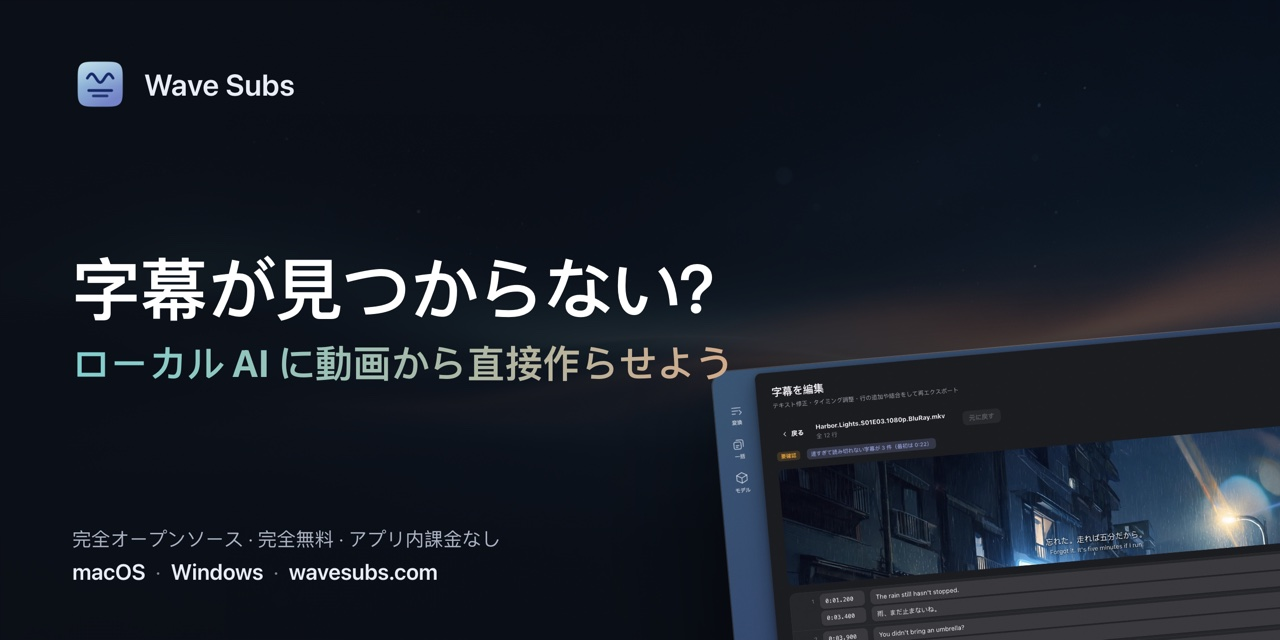
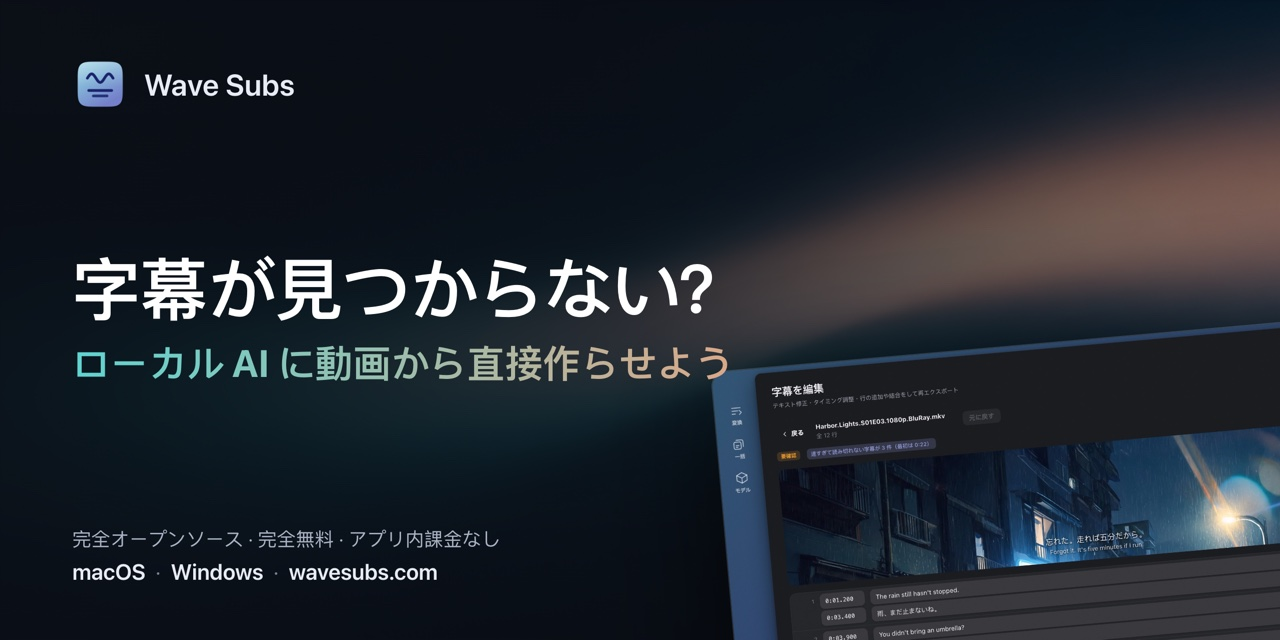
官网背景换成无星点的柔光版；社交图增加高清横版与两种竖版（11 语 × 4 尺寸）

Changed region(s): [[0.5, 0.125, 1.0, 0.5938], [0.0625, 0.5312, 0.0938, 0.5938], [0.9688, 0.75, 1.0, 0.7812]]

diff --git a/docs/de/index.html b/docs/de/index.html
@@ -45,7 +45,7 @@
 
   /* ---- 首屏 ---- */
   .hero{position:relative;overflow:hidden;padding:96px 0 40px;text-align:center}
-  .hero::before{content:"";position:absolute;inset:0;background:url(../assets/hero-wave.jpg?v=9acb51fc) center 35%/cover no-repeat;opacity:.85;mask-image:linear-gradient(to bottom,#000 45%,transparent 100%);-webkit-mask-image:linear-gradient(to bottom,#000 45%,transparent 100%)}
+  .hero::before{content:"";position:absolute;inset:0;background:url(../assets/hero-wave.jpg?v=05552337) center 55%/cover no-repeat;opacity:.8;mask-image:linear-gradient(to bottom,#000 50%,transparent 100%);-webkit-mask-image:linear-gradient(to bottom,#000 50%,transparent 100%)}
   .hero .wrap{position:relative}
   .hero h1{font-size:clamp(34px,5.4vw,60px);line-height:1.12;margin:0 0 18px;letter-spacing:-.5px;font-weight:700}
   .hero h1 em{font-style:normal;background:linear-gradient(90deg,var(--teal),var(--coral));-webkit-background-clip:text;background-clip:text;color:transparent}

diff --git a/docs/en/index.html b/docs/en/index.html
@@ -45,7 +45,7 @@
 
   /* ---- 首屏 ---- */
   .hero{position:relative;overflow:hidden;padding:96px 0 40px;text-align:center}
-  .hero::before{content:"";position:absolute;inset:0;background:url(../assets/hero-wave.jpg?v=9acb51fc) center 35%/cover no-repeat;opacity:.85;mask-image:linear-gradient(to bottom,#000 45%,transparent 100%);-webkit-mask-image:linear-gradient(to bottom,#000 45%,transparent 100%)}
+  .hero::before{content:"";position:absolute;inset:0;background:url(../assets/hero-wave.jpg?v=05552337) center 55%/cover no-repeat;opacity:.8;mask-image:linear-gradient(to bottom,#000 50%,transparent 100%);-webkit-mask-image:linear-gradient(to bottom,#000 50%,transparent 100%)}
   .hero .wrap{position:relative}
   .hero h1{font-size:clamp(34px,5.4vw,60px);line-height:1.12;margin:0 0 18px;letter-spacing:-.5px;font-weight:700}
   .hero h1 em{font-style:normal;background:linear-gradient(90deg,var(--teal),var(--coral));-webkit-background-clip:text;background-clip:text;color:transparent}

diff --git a/docs/fr/index.html b/docs/fr/index.html
@@ -45,7 +45,7 @@
 
   /* ---- 首屏 ---- */
   .hero{position:relative;overflow:hidden;padding:96px 0 40px;text-align:center}
-  .hero::before{content:"";position:absolute;inset:0;background:url(../assets/hero-wave.jpg?v=9acb51fc) center 35%/cover no-repeat;opacity:.85;mask-image:linear-gradient(to bottom,#000 45%,transparent 100%);-webkit-mask-image:linear-gradient(to bottom,#000 45%,transparent 100%)}
+  .hero::before{content:"";position:absolute;inset:0;background:url(../assets/hero-wave.jpg?v=05552337) center 55%/cover no-repeat;opacity:.8;mask-image:linear-gradient(to bottom,#000 50%,transparent 100%);-webkit-mask-image:linear-gradient(to bottom,#000 50%,transparent 100%)}
   .hero .wrap{position:relative}
   .hero h1{font-size:clamp(34px,5.4vw,60px);line-height:1.12;margin:0 0 18px;letter-spacing:-.5px;font-weight:700}
   .hero h1 em{font-style:normal;background:linear-gradient(90deg,var(--teal),var(--coral));-webkit-background-clip:text;background-clip:text;color:transparent}

diff --git a/docs/id/index.html b/docs/id/index.html
@@ -45,7 +45,7 @@
 
   /* ---- 首屏 ---- */
   .hero{position:relative;overflow:hidden;padding:96px 0 40px;text-align:center}
-  .hero::before{content:"";position:absolute;inset:0;background:url(../assets/hero-wave.jpg?v=9acb51fc) center 35%/cover no-repeat;opacity:.85;mask-image:linear-gradient(to bottom,#000 45%,transparent 100%);-webkit-mask-image:linear-gradient(to bottom,#000 45%,transparent 100%)}
+  .hero::before{content:"";position:absolute;inset:0;background:url(../assets/hero-wave.jpg?v=05552337) center 55%/cover no-repeat;opacity:.8;mask-image:linear-gradient(to bottom,#000 50%,transparent 100%);-webkit-mask-image:linear-gradient(to bottom,#000 50%,transparent 100%)}
   .hero .wrap{position:relative}
   .hero h1{font-size:clamp(34px,5.4vw,60px);line-height:1.12;margin:0 0 18px;letter-spacing:-.5px;font-weight:700}
   .hero h1 em{font-style:normal;background:linear-gradient(90deg,var(--teal),var(--coral));-webkit-background-clip:text;background-clip:text;color:transparent}

diff --git a/docs/ja/index.html b/docs/ja/index.html
@@ -45,7 +45,7 @@
 
   /* ---- 首屏 ---- */
   .hero{position:relative;overflow:hidden;padding:96px 0 40px;text-align:center}
-  .hero::before{content:"";position:absolute;inset:0;background:url(../assets/hero-wave.jpg?v=9acb51fc) center 35%/cover no-repeat;opacity:.85;mask-image:linear-gradient(to bottom,#000 45%,transparent 100%);-webkit-mask-image:linear-gradient(to bottom,#000 45%,transparent 100%)}
+  .hero::before{content:"";position:absolute;inset:0;background:url(../assets/hero-wave.jpg?v=05552337) center 55%/cover no-repeat;opacity:.8;mask-image:linear-gradient(to bottom,#000 50%,transparent 100%);-webkit-mask-image:linear-gradient(to bottom,#000 50%,transparent 100%)}
   .hero .wrap{position:relative}
   .hero h1{font-size:clamp(34px,5.4vw,60px);line-height:1.12;margin:0 0 18px;letter-spacing:-.5px;font-weight:700}
   .hero h1 em{font-style:normal;background:linear-gradient(90deg,var(--teal),var(--coral));-webkit-background-clip:text;background-clip:text;color:transparent}

diff --git a/docs/ko/index.html b/docs/ko/index.html
@@ -45,7 +45,7 @@
 
   /* ---- 首屏 ---- */
   .hero{position:relative;overflow:hidden;padding:96px 0 40px;text-align:center}
-  .hero::before{content:"";position:absolute;inset:0;background:url(../assets/hero-wave.jpg?v=9acb51fc) center 35%/cover no-repeat;opacity:.85;mask-image:linear-gradient(to bottom,#000 45%,transparent 100%);-webkit-mask-image:linear-gradient(to bottom,#000 45%,transparent 100%)}
+  .hero::before{content:"";position:absolute;inset:0;background:url(../assets/hero-wave.jpg?v=05552337) center 55%/cover no-repeat;opacity:.8;mask-image:linear-gradient(to bottom,#000 50%,transparent 100%);-webkit-mask-image:linear-gradient(to bottom,#000 50%,transparent 100%)}
   .hero .wrap{position:relative}
   .hero h1{font-size:clamp(34px,5.4vw,60px);line-height:1.12;margin:0 0 18px;letter-spacing:-.5px;font-weight:700}
   .hero h1 em{font-style:normal;background:linear-gradient(90deg,var(--teal),var(--coral));-webkit-background-clip:text;background-clip:text;color:transparent}

diff --git a/docs/ms/index.html b/docs/ms/index.html
@@ -45,7 +45,7 @@
 
   /* ---- 首屏 ---- */
   .hero{position:relative;overflow:hidden;padding:96px 0 40px;text-align:center}
-  .hero::before{content:"";position:absolute;inset:0;background:url(../assets/hero-wave.jpg?v=9acb51fc) center 35%/cover no-repeat;opacity:.85;mask-image:linear-gradient(to bottom,#000 45%,transparent 100%);-webkit-mask-image:linear-gradient(to bottom,#000 45%,transparent 100%)}
+  .hero::before{content:"";position:absolute;inset:0;background:url(../assets/hero-wave.jpg?v=05552337) center 55%/cover no-repeat;opacity:.8;mask-image:linear-gradient(to bottom,#000 50%,transparent 100%);-webkit-mask-image:linear-gradient(to bottom,#000 50%,transparent 100%)}
   .hero .wrap{position:relative}
   .hero h1{font-size:clamp(34px,5.4vw,60px);line-height:1.12;margin:0 0 18px;letter-spacing:-.5px;font-weight:700}
   .hero h1 em{font-style:normal;background:linear-gradient(90deg,var(--teal),var(--coral));-webkit-background-clip:text;background-clip:text;color:transparent}

diff --git a/docs/ru/index.html b/docs/ru/index.html
@@ -45,7 +45,7 @@
 
   /* ---- 首屏 ---- */
   .hero{position:relative;overflow:hidden;padding:96px 0 40px;text-align:center}
-  .hero::before{content:"";position:absolute;inset:0;background:url(../assets/hero-wave.jpg?v=9acb51fc) center 35%/cover no-repeat;opacity:.85;mask-image:linear-gradient(to bottom,#000 45%,transparent 100%);-webkit-mask-image:linear-gradient(to bottom,#000 45%,transparent 100%)}
+  .hero::before{content:"";position:absolute;inset:0;background:url(../assets/hero-wave.jpg?v=05552337) center 55%/cover no-repeat;opacity:.8;mask-image:linear-gradient(to bottom,#000 50%,transparent 100%);-webkit-mask-image:linear-gradient(to bottom,#000 50%,transparent 100%)}
   .hero .wrap{position:relative}
   .hero h1{font-size:clamp(34px,5.4vw,60px);line-height:1.12;margin:0 0 18px;letter-spacing:-.5px;font-weight:700}
   .hero h1 em{font-style:normal;background:linear-gradient(90deg,var(--teal),var(--coral));-webkit-background-clip:text;background-clip:text;color:transparent}

diff --git a/docs/th/index.html b/docs/th/index.html
@@ -45,7 +45,7 @@
 
   /* ---- 首屏 ---- */
   .hero{position:relative;overflow:hidden;padding:96px 0 40px;text-align:center}
-  .hero::before{content:"";position:absolute;inset:0;background:url(../assets/hero-wave.jpg?v=9acb51fc) center 35%/cover no-repeat;opacity:.85;mask-image:linear-gradient(to bottom,#000 45%,transparent 100%);-webkit-mask-image:linear-gradient(to bottom,#000 45%,transparent 100%)}
+  .hero::before{content:"";position:absolute;inset:0;background:url(../assets/hero-wave.jpg?v=05552337) center 55%/cover no-repeat;opacity:.8;mask-image:linear-gradient(to bottom,#000 50%,transparent 100%);-webkit-mask-image:linear-gradient(to bottom,#000 50%,transparent 100%)}
   .hero .wrap{position:relative}
   .hero h1{font-size:clamp(34px,5.4vw,60px);line-height:1.12;margin:0 0 18px;letter-spacing:-.5px;font-weight:700}
   .hero h1 em{font-style:normal;background:linear-gradient(90deg,var(--teal),var(--coral));-webkit-background-clip:text;background-clip:text;color:transparent}

diff --git a/docs/vi/index.html b/docs/vi/index.html
@@ -45,7 +45,7 @@
 
   /* ---- 首屏 ---- */
   .hero{position:relative;overflow:hidden;padding:96px 0 40px;text-align:center}
-  .hero::before{content:"";position:absolute;inset:0;background:url(../assets/hero-wave.jpg?v=9acb51fc) center 35%/cover no-repeat;opacity:.85;mask-image:linear-gradient(to bottom,#000 45%,transparent 100%);-webkit-mask-image:linear-gradient(to bottom,#000 45%,transparent 100%)}
+  .hero::before{content:"";position:absolute;inset:0;background:url(../assets/hero-wave.jpg?v=05552337) center 55%/cover no-repeat;opacity:.8;mask-image:linear-gradient(to bottom,#000 50%,transparent 100%);-webkit-mask-image:linear-gradient(to bottom,#000 50%,transparent 100%)}
   .hero .wrap{position:relative}
   .hero h1{font-size:clamp(34px,5.4vw,60px);line-height:1.12;margin:0 0 18px;letter-spacing:-.5px;font-weight:700}
   .hero h1 em{font-style:normal;background:linear-gradient(90deg,var(--teal),var(--coral));-webkit-background-clip:text;background-clip:text;color:transparent}

diff --git a/docs/index.html b/docs/index.html
@@ -45,7 +45,7 @@
 
   /* ---- 首屏 ---- */
   .hero{position:relative;overflow:hidden;padding:96px 0 40px;text-align:center}
-  .hero::before{content:"";position:absolute;inset:0;background:url(assets/hero-wave.jpg?v=9acb51fc) center 35%/cover no-repeat;opacity:.85;mask-image:linear-gradient(to bottom,#000 45%,transparent 100%);-webkit-mask-image:linear-gradient(to bottom,#000 45%,transparent 100%)}
+  .hero::before{content:"";position:absolute;inset:0;background:url(assets/hero-wave.jpg?v=05552337) center 55%/cover no-repeat;opacity:.8;mask-image:linear-gradient(to bottom,#000 50%,transparent 100%);-webkit-mask-image:linear-gradient(to bottom,#000 50%,transparent 100%)}
   .hero .wrap{position:relative}
   .hero h1{font-size:clamp(34px,5.4vw,60px);line-height:1.12;margin:0 0 18px;letter-spacing:-.5px;font-weight:700}
   .hero h1 em{font-style:normal;background:linear-gradient(90deg,var(--teal),var(--coral));-webkit-background-clip:text;background-clip:text;color:transparent}

diff --git a/scripts/site.css b/scripts/site.css
@@ -27,7 +27,7 @@
 
   /* ---- 首屏 ---- */
   .hero{position:relative;overflow:hidden;padding:96px 0 40px;text-align:center}
-  .hero::before{content:"";position:absolute;inset:0;background:url(assets/hero-wave.jpg) center 35%/cover no-repeat;opacity:.85;mask-image:linear-gradient(to bottom,#000 45%,transparent 100%);-webkit-mask-image:linear-gradient(to bottom,#000 45%,transparent 100%)}
+  .hero::before{content:"";position:absolute;inset:0;background:url(assets/hero-wave.jpg) center 55%/cover no-repeat;opacity:.8;mask-image:linear-gradient(to bottom,#000 50%,transparent 100%);-webkit-mask-image:linear-gradient(to bottom,#000 50%,transparent 100%)}
   .hero .wrap{position:relative}
   .hero h1{font-size:clamp(34px,5.4vw,60px);line-height:1.12;margin:0 0 18px;letter-spacing:-.5px;font-weight:700}
   .hero h1 em{font-style:normal;background:linear-gradient(90deg,var(--teal),var(--coral));-webkit-background-clip:text;background-clip:text;color:transparent}
